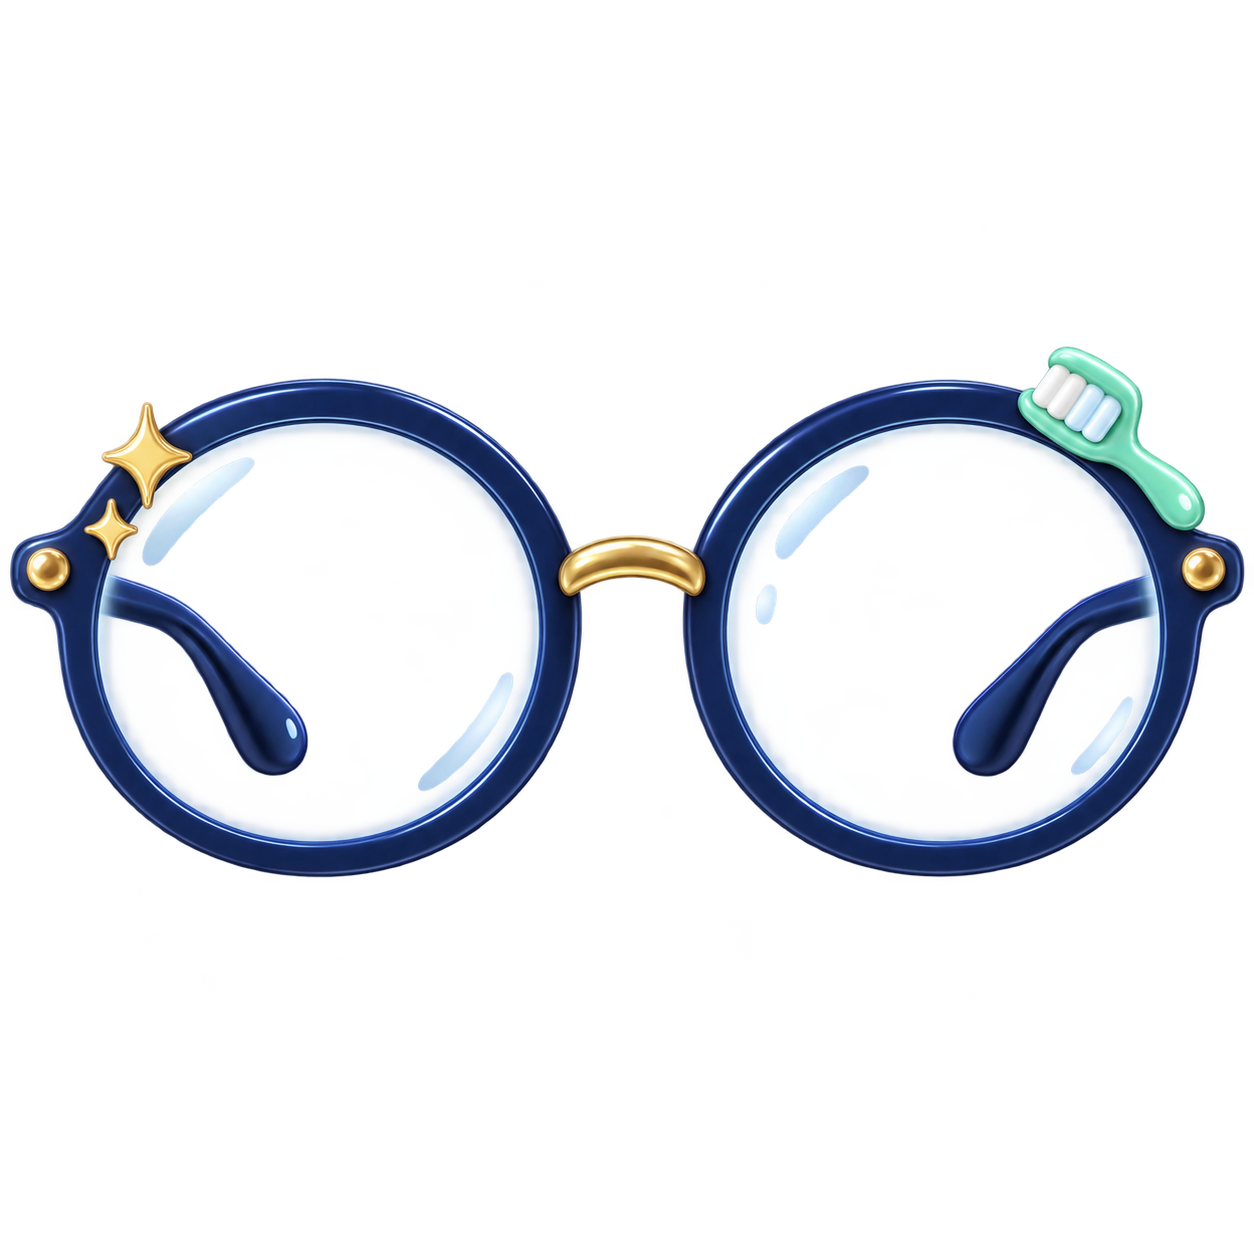
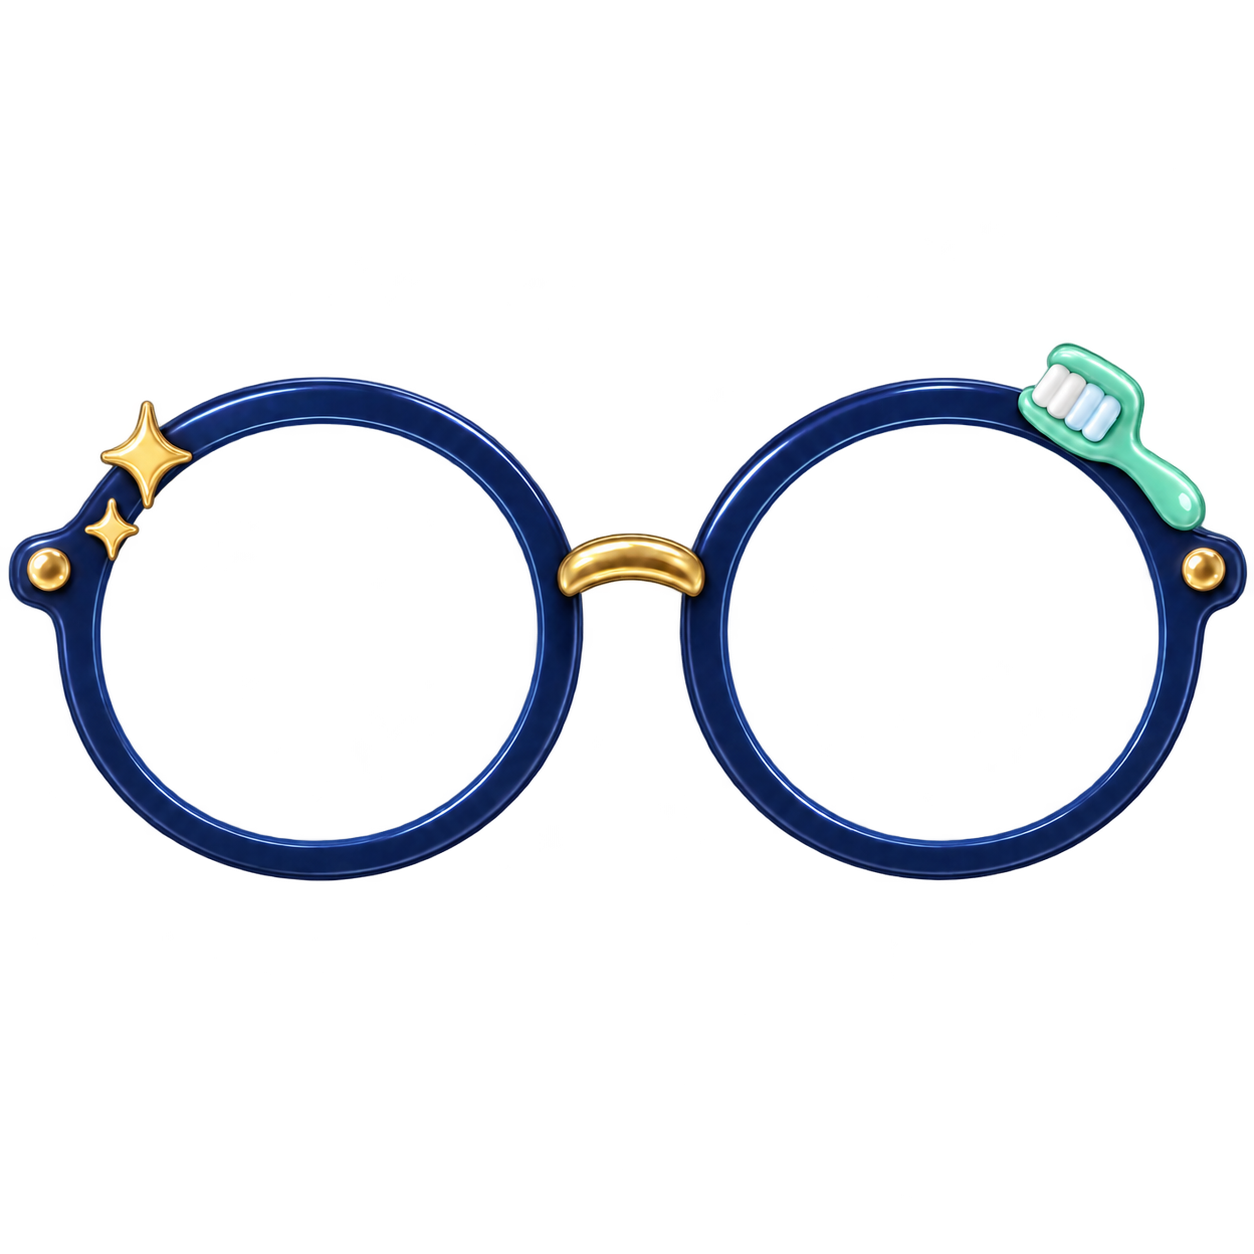
fix: polish timer and face AR skins

Changed region(s): [[0.0, 0.2488, 0.9641, 0.7153], [0.933, 0.3732, 0.9952, 0.4976], [0.9019, 0.311, 0.933, 0.3732]]

diff --git a/src/features/brushing-session/adjustable-countdown.tsx b/src/features/brushing-session/adjustable-countdown.tsx
@@ -3,23 +3,45 @@
 import { useRef, useState, type PointerEvent } from "react";
 
 type Position = { x: number; y: number };
+type Bounds = { left: number; top: number; width: number; height: number };
+type Size = { width: number; height: number };
 
 const clamp = (value: number, minimum: number, maximum: number) =>
   Math.min(maximum, Math.max(minimum, value));
 
+export function constrainTimerPosition(
+  pointer: Position,
+  stage: Bounds,
+  timer: Size,
+  margin = 12,
+): Position {
+  const halfWidth = timer.width / 2;
+  const halfHeight = timer.height / 2;
+  const minimumX = halfWidth + margin;
+  const maximumX = Math.max(minimumX, stage.width - halfWidth - margin);
+  const minimumY = halfHeight + margin;
+  const maximumY = Math.max(minimumY, stage.height - halfHeight - margin);
+  return {
+    x: clamp(pointer.x - stage.left, minimumX, maximumX) / stage.width * 100,
+    y: clamp(pointer.y - stage.top, minimumY, maximumY) / stage.height * 100,
+  };
+}
+
 export function AdjustableCountdown({ value }: { value: string }) {
   const [compact, setCompact] = useState(false);
-  const [position, setPosition] = useState<Position>({ x: 86, y: 11 });
+  const [position, setPosition] = useState<Position>({ x: 76, y: 9 });
   const activePointer = useRef<number | null>(null);
 
   function move(event: PointerEvent<HTMLDivElement>) {
     if (activePointer.current !== event.pointerId) return;
     const bounds = event.currentTarget.parentElement?.getBoundingClientRect();
     if (!bounds || bounds.width <= 0 || bounds.height <= 0) return;
-    setPosition({
-      x: clamp(((event.clientX - bounds.left) / bounds.width) * 100, 8, 92),
-      y: clamp(((event.clientY - bounds.top) / bounds.height) * 100, 8, 92),
-    });
+    const timer = event.currentTarget.getBoundingClientRect();
+    setPosition(constrainTimerPosition(
+      { x: event.clientX, y: event.clientY },
+      bounds,
+      { width: timer.width, height: timer.height },
+    ));
   }
 
   return (

diff --git a/src/features/ar-skins/skin-registry.ts b/src/features/ar-skins/skin-registry.ts
@@ -34,7 +34,7 @@ export const AR_SKINS = {
   "detective-glasses": { id: "detective-glasses", label: "동글 안경 탐정", src: "/ar-skins/detective-glasses.png", calibration: { anchorX: 0, anchorY: -0.02, scale: 1.2, rotationOffset: 0 }, bundled: true },
   "tooth-fairy": { id: "tooth-fairy", label: "반짝 치아 요정", src: "/ar-skins/tooth-fairy.png", calibration: { anchorX: 0, anchorY: -0.08, scale: 1.58, rotationOffset: 0 }, bundled: true },
   "frog-hood": { id: "frog-hood", label: "말랑 개구리 머리띠", src: "/ar-skins/frog-headband.png", calibration: { anchorX: 0, anchorY: -0.33, scale: 1.28, rotationOffset: 0 }, bundled: true },
-  "photo-booth": { id: "photo-booth", label: "반짝 네컷", src: "/ar-skins/photo-booth.png", calibration: { anchorX: 0, anchorY: 0, scale: 1.75, rotationOffset: 0 }, bundled: true },
+  "photo-booth": { id: "photo-booth", label: "반짝 치아 티아라", src: "/ar-skins/tooth-tiara.png", calibration: { anchorX: 0, anchorY: -0.36, scale: 1.3, rotationOffset: 0 }, bundled: true },
   "puppy-hood": { id: "puppy-hood", label: "복슬 강아지 머리띠", src: "/ar-skins/puppy-headband.png", calibration: { anchorX: 0, anchorY: -0.32, scale: 1.3, rotationOffset: 0 }, bundled: true },
   "hamster-hood": { id: "hamster-hood", label: "볼빵빵 햄스터 머리띠", src: "/ar-skins/hamster-headband.png", calibration: { anchorX: 0, anchorY: -0.33, scale: 1.28, rotationOffset: 0 }, bundled: true },
   "fox-hood": { id: "fox-hood", label: "새침 여우 머리띠", src: "/ar-skins/fox-headband.png", calibration: { anchorX: 0, anchorY: -0.34, scale: 1.28, rotationOffset: 0 }, bundled: true },

diff --git a/src/app/brush/brush.module.css b/src/app/brush/brush.module.css
@@ -62,11 +62,14 @@
   z-index: 4;
   display: flex;
   align-items: center;
-  gap: 8px;
-  padding: 8px 10px;
+  gap: 6px;
+  min-width: 132px;
+  padding: 7px 9px;
+  border: 1px solid rgb(255 255 255 / 72%);
   border-radius: 999px;
-  background: rgb(255 255 255 / 90%);
-  box-shadow: 0 8px 24px rgb(33 48 88 / 18%);
+  background: linear-gradient(145deg, rgb(255 255 255 / 96%), rgb(241 245 255 / 91%));
+  box-shadow: 0 8px 22px rgb(20 42 98 / 20%), inset 0 1px 0 rgb(255 255 255 / 82%);
+  backdrop-filter: blur(10px);
   transform: translate(-50%, -50%);
   touch-action: none;
   user-select: none;
@@ -78,31 +81,36 @@
 }
 
 :global(.adjustable-countdown strong) {
-  font-size: 2.5rem;
+  color: #203665;
+  font-size: clamp(1.75rem, 7vw, 2.1rem);
+  font-weight: 850;
   font-variant-numeric: tabular-nums;
+  letter-spacing: -0.045em;
   line-height: 1;
+  text-shadow: 0 1px 0 white;
 }
 
 :global(.adjustable-countdown[data-size="compact"] strong) {
-  font-size: 1.5rem;
+  font-size: 1.35rem;
 }
 
 :global(.timer-drag-handle) {
-  color: var(--muted);
-  font-size: 1.15rem;
+  color: #8290ad;
+  font-size: 1rem;
+  line-height: 1;
 }
 
 :global(.adjustable-countdown button) {
   display: grid;
-  width: 32px;
-  min-height: 32px;
+  width: 27px;
+  min-height: 27px;
   place-items: center;
   padding: 0;
   border: 0;
   border-radius: 50%;
   background: rgb(88 117 216 / 14%);
   color: var(--primary);
-  font-size: 1.2rem;
+  font-size: 1rem;
   font-weight: 900;
 }
 

diff --git a/tests/features/ar-skins/bounded-overlay.test.ts b/tests/features/ar-skins/bounded-overlay.test.ts
@@ -3,17 +3,17 @@ import { describe, expect, it } from "vitest";
 import { boundedOverlayStyle } from "@/features/ar-skins/bounded-overlay";
 
 describe("boundedOverlayStyle", () => {
-  it("keeps a close face centered while allowing the skin to grow beyond the stage", () => {
+  it("keeps a close face anchor attached instead of pulling the skin into the stage", () => {
     expect(boundedOverlayStyle(
       { centerX: 0.5, centerY: 0.15, width: 0.8, rotationDeg: 0 },
       { anchorX: 0, anchorY: -0.4, scale: 1.5, rotationOffset: 0 },
       { width: 320, height: 568 },
       { width: 600, height: 300 },
       8,
-    )).toMatchObject({ left: "160px", top: "8px", width: "460.8px" });
+    )).toMatchObject({ left: "160px", top: "-96.56px", width: "460.8px" });
   });
 
-  it("keeps an extreme rotated anchor attached to the visible face edge", () => {
+  it("keeps an extreme rotated anchor attached to the face outside the stage", () => {
     const style = boundedOverlayStyle(
       { centerX: 0.95, centerY: 0.1, width: 0.8, rotationDeg: 80 },
       { anchorX: 0.5, anchorY: -0.5, scale: 1, rotationOffset: 10 },
@@ -22,7 +22,7 @@ describe("boundedOverlayStyle", () => {
       8,
     );
 
-    expect(style).toMatchObject({ left: "312px", top: "8px", width: "307.2px" });
+    expect(style).toMatchObject({ left: "432px", top: "-170.4px", width: "307.2px" });
     expect(style?.transform).toBe("translate3d(-50%, -50%, 0) rotate(90deg)");
   });
 

diff --git a/src/features/ar-skins/bounded-overlay.ts b/src/features/ar-skins/bounded-overlay.ts
@@ -11,10 +11,6 @@ function px(value: number) {
   return `${Number(value.toFixed(4))}px`;
 }
 
-function clamp(value: number, minimum: number, maximum: number) {
-  return Math.min(maximum, Math.max(minimum, value));
-}
-
 export function boundedOverlayStyle(
   pose: FacePose,
   calibration: SkinCalibration,
@@ -53,20 +49,10 @@ export function boundedOverlayStyle(
 
   const requestedX = (pose.centerX + pose.width * calibration.anchorX) * stageSize.width;
   const requestedY = (pose.centerY + pose.width * calibration.anchorY) * stageSize.height;
-  const centerX = clamp(
-    requestedX,
-    insetPx,
-    stageSize.width - insetPx,
-  );
-  const centerY = clamp(
-    requestedY,
-    insetPx,
-    stageSize.height - insetPx,
-  );
 
   return {
-    left: px(centerX),
-    top: px(centerY),
+    left: px(requestedX),
+    top: px(requestedY),
     width: px(width),
     transform: `translate3d(-50%, -50%, 0) rotate(${rotationDeg}deg)`,
     visibility: "visible",

diff --git a/tests/features/ar-skins/skin-registry.test.ts b/tests/features/ar-skins/skin-registry.test.ts
@@ -54,6 +54,16 @@ describe("AR skin registry", () => {
     }
   });
 
+  it("offers a wearable tooth tiara instead of a full face photo frame", () => {
+    const wearable = BASIC_SKINS.find((skin) => skin.id === "photo-booth");
+
+    expect(wearable).toMatchObject({
+      label: "반짝 치아 티아라",
+      src: "/ar-skins/tooth-tiara.png",
+      calibration: { anchorY: -0.36 },
+    });
+  });
+
   it("keeps the student's choice before the final challenge day", () => {
     expect(resolveSessionSkin("rabbit", 3, 5)).toBe("rabbit");
   });

diff --git a/tests/features/brushing-session/adjustable-countdown.test.ts b/tests/features/brushing-session/adjustable-countdown.test.ts
@@ -1,0 +1,14 @@
+import { describe, expect, it } from "vitest";
+
+import { constrainTimerPosition } from "@/features/brushing-session/adjustable-countdown";
+
+describe("constrainTimerPosition", () => {
+  it("keeps the entire timer inside the stage near the top-right edge", () => {
+    expect(constrainTimerPosition(
+      { x: 319, y: 1 },
+      { left: 0, top: 0, width: 320, height: 360 },
+      { width: 120, height: 52 },
+      12,
+    )).toEqual({ x: 77.5, y: 10.555555555555555 });
+  });
+});
